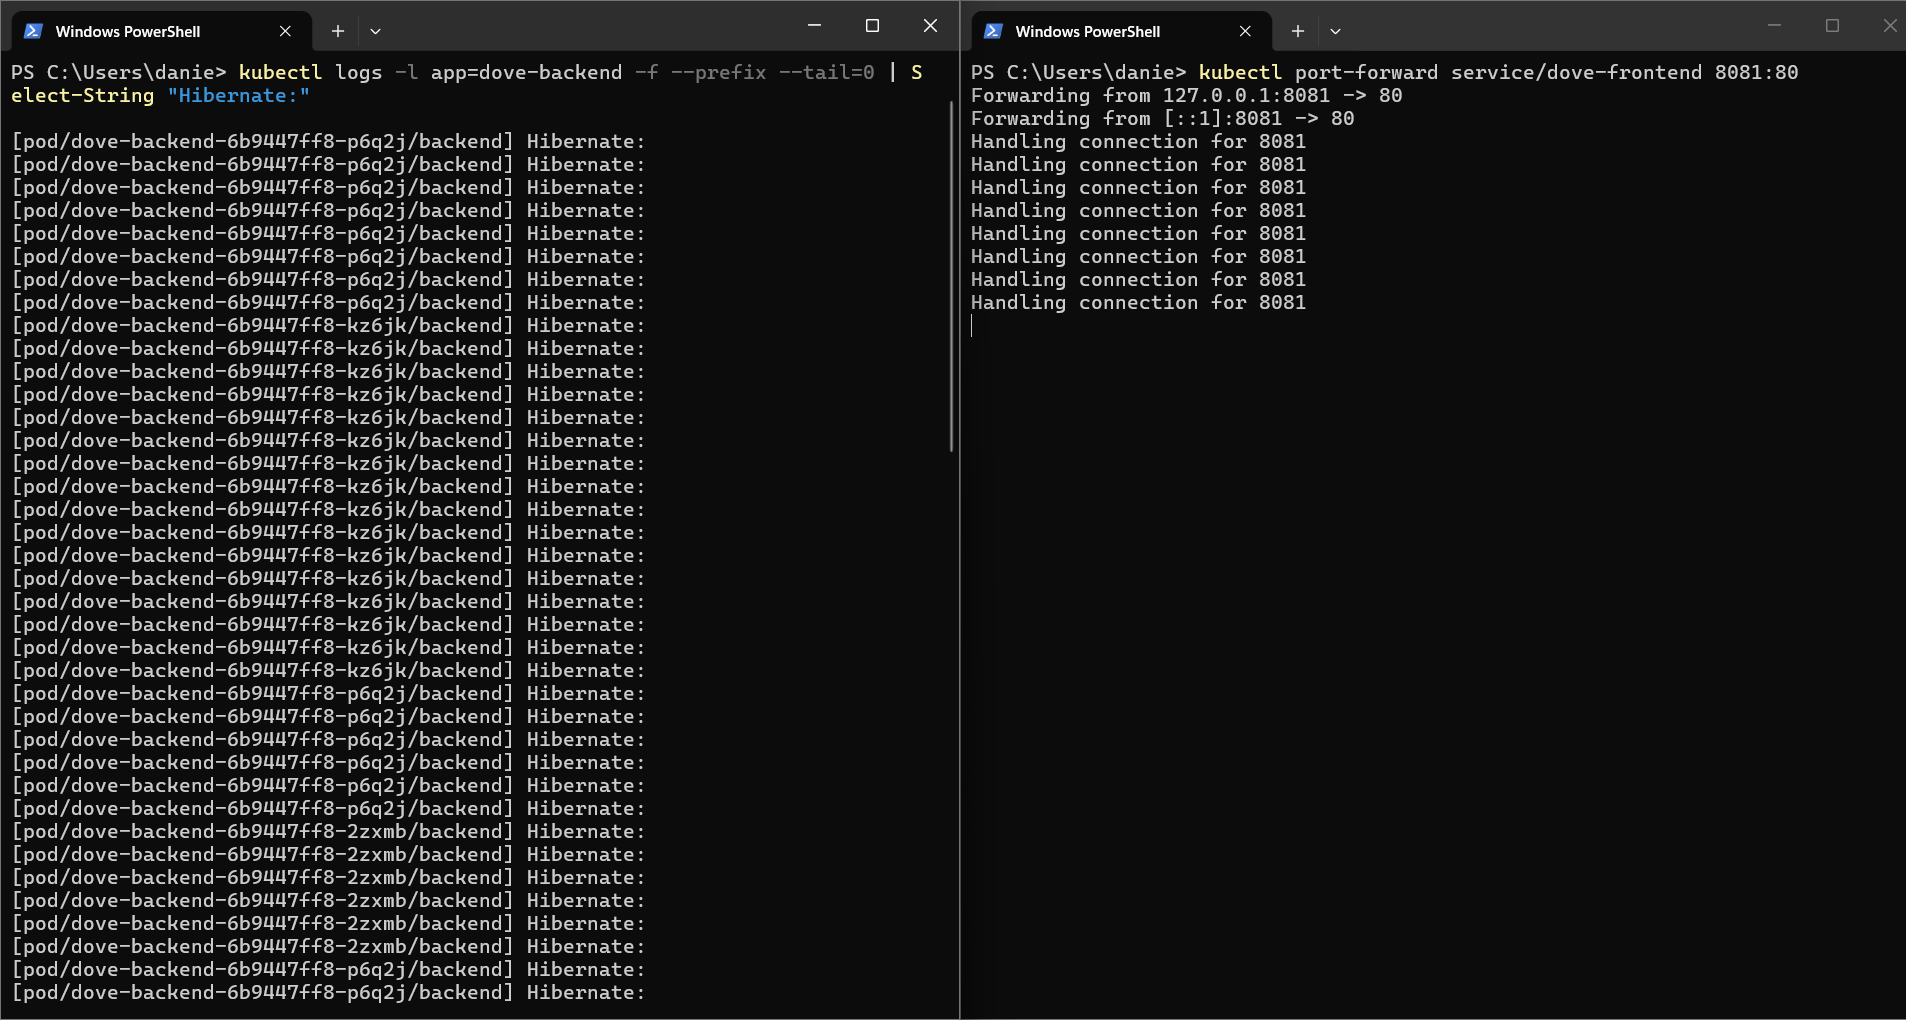
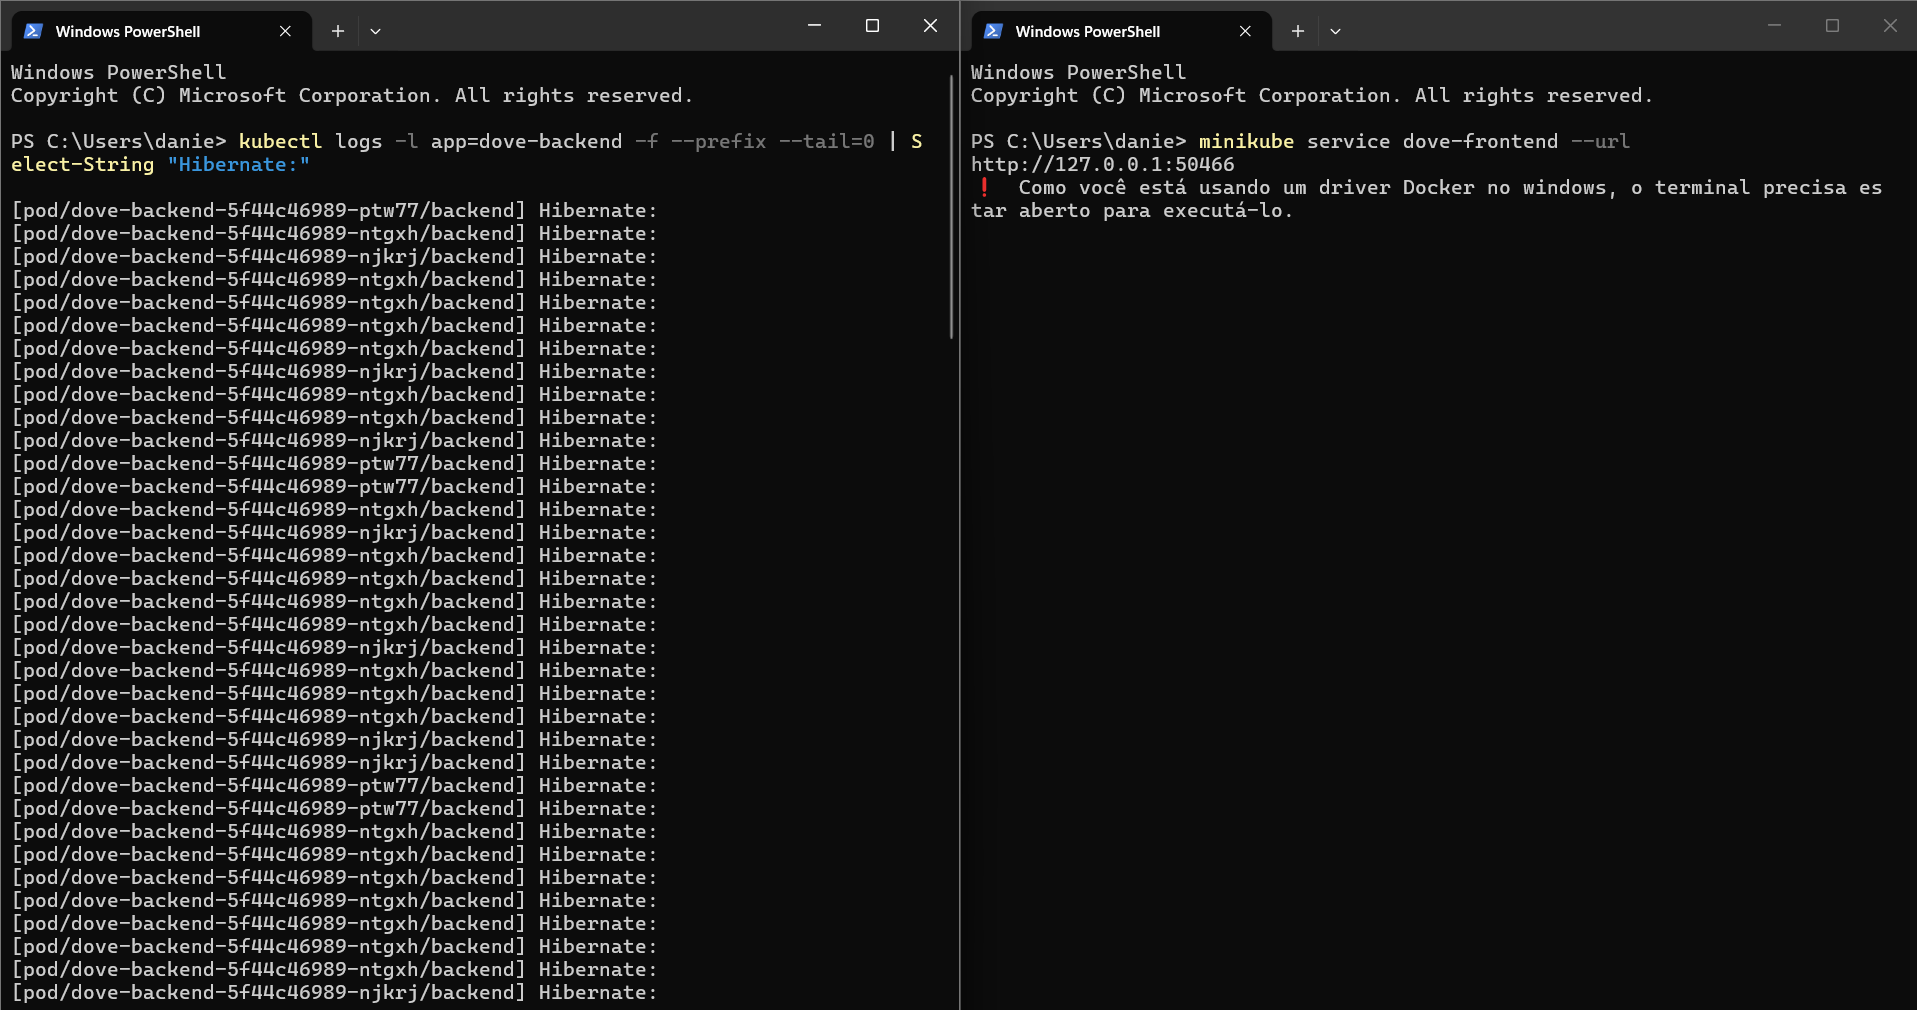
docs: atualiza evidencia de balanceamento com minikube service

diff --git a/README.md b/README.md
@@ -396,14 +396,14 @@ minikube service dove-frontend --url
 Na URL mostrada pelo comando, faça login e navegue entre as telas que buscam dados (cardápio, pedidos, ingredientes), atualizando a página algumas vezes. No Terminal 1, as consultas passam a aparecer com prefixos de Pods diferentes:
 
 ```text
-[pod/dove-backend-6b9447ff8-p6q2j/backend] Hibernate:
-[pod/dove-backend-6b9447ff8-kz6jk/backend] Hibernate:
-[pod/dove-backend-6b9447ff8-2zxmb/backend] Hibernate:
+[pod/dove-backend-5f44c46989-ptw77/backend] Hibernate:
+[pod/dove-backend-5f44c46989-ntgxh/backend] Hibernate:
+[pod/dove-backend-5f44c46989-njkrj/backend] Hibernate:
 ```
 
 As linhas aparecem em blocos porque cada requisição gera várias consultas (validação do token JWT e busca dos dados), todas executadas no mesmo Pod. Requisições diferentes são distribuídas entre as réplicas.
 
-**Resultado obtido:** durante a navegação, as requisições foram atendidas pelas três réplicas: `dove-backend-6b9447ff8-p6q2j`, `dove-backend-6b9447ff8-kz6jk` e `dove-backend-6b9447ff8-2zxmb`. A distribuição é feita por conexão e é probabilística, por isso a quantidade de requisições por Pod não é igual.
+**Resultado obtido:** durante a navegação, as requisições foram atendidas pelas três réplicas: `dove-backend-5f44c46989-ptw77`, `dove-backend-5f44c46989-ntgxh` e `dove-backend-5f44c46989-njkrj`. A distribuição é feita por conexão e é probabilística, por isso a quantidade de requisições por Pod não é igual.
 
 ![Balanceamento pelos logs](evidencias/08-balanceamento-logs.png)
 
@@ -442,7 +442,7 @@ minikube ssh -- "sudo iptables -t nat -L KUBE-SVC-XXXXXXXXXXXXXXXX -n -v -x"
 | `dove-backend-6b9447ff8-2zxmb` | `10.244.0.15` | 39 | 48 | 9 |
 | **Total** | | **92** | **122** | **30** |
 
-As 30 conexões geradas foram distribuídas entre as três réplicas. Os contadores da tabela `nat` registram apenas o primeiro pacote de cada conexão, então cada incremento corresponde a uma nova conexão encaminhada àquele Pod. Os valores iniciais não são zero porque incluem as conexões da navegação feita no teste anterior. A distribuição não é exatamente 10/10/10 porque o sorteio é aleatório por conexão.
+As 30 conexões geradas foram distribuídas entre as três réplicas. Os contadores da tabela `nat` registram apenas o primeiro pacote de cada conexão, então cada incremento corresponde a uma nova conexão encaminhada àquele Pod. Os valores iniciais não são zero porque incluem conexões feitas anteriormente, durante o uso da aplicação. A distribuição não é exatamente 10/10/10 porque o sorteio é aleatório por conexão.
 
 ![Balanceamento pelo iptables](evidencias/09-balanceamento-iptables.png)
 
